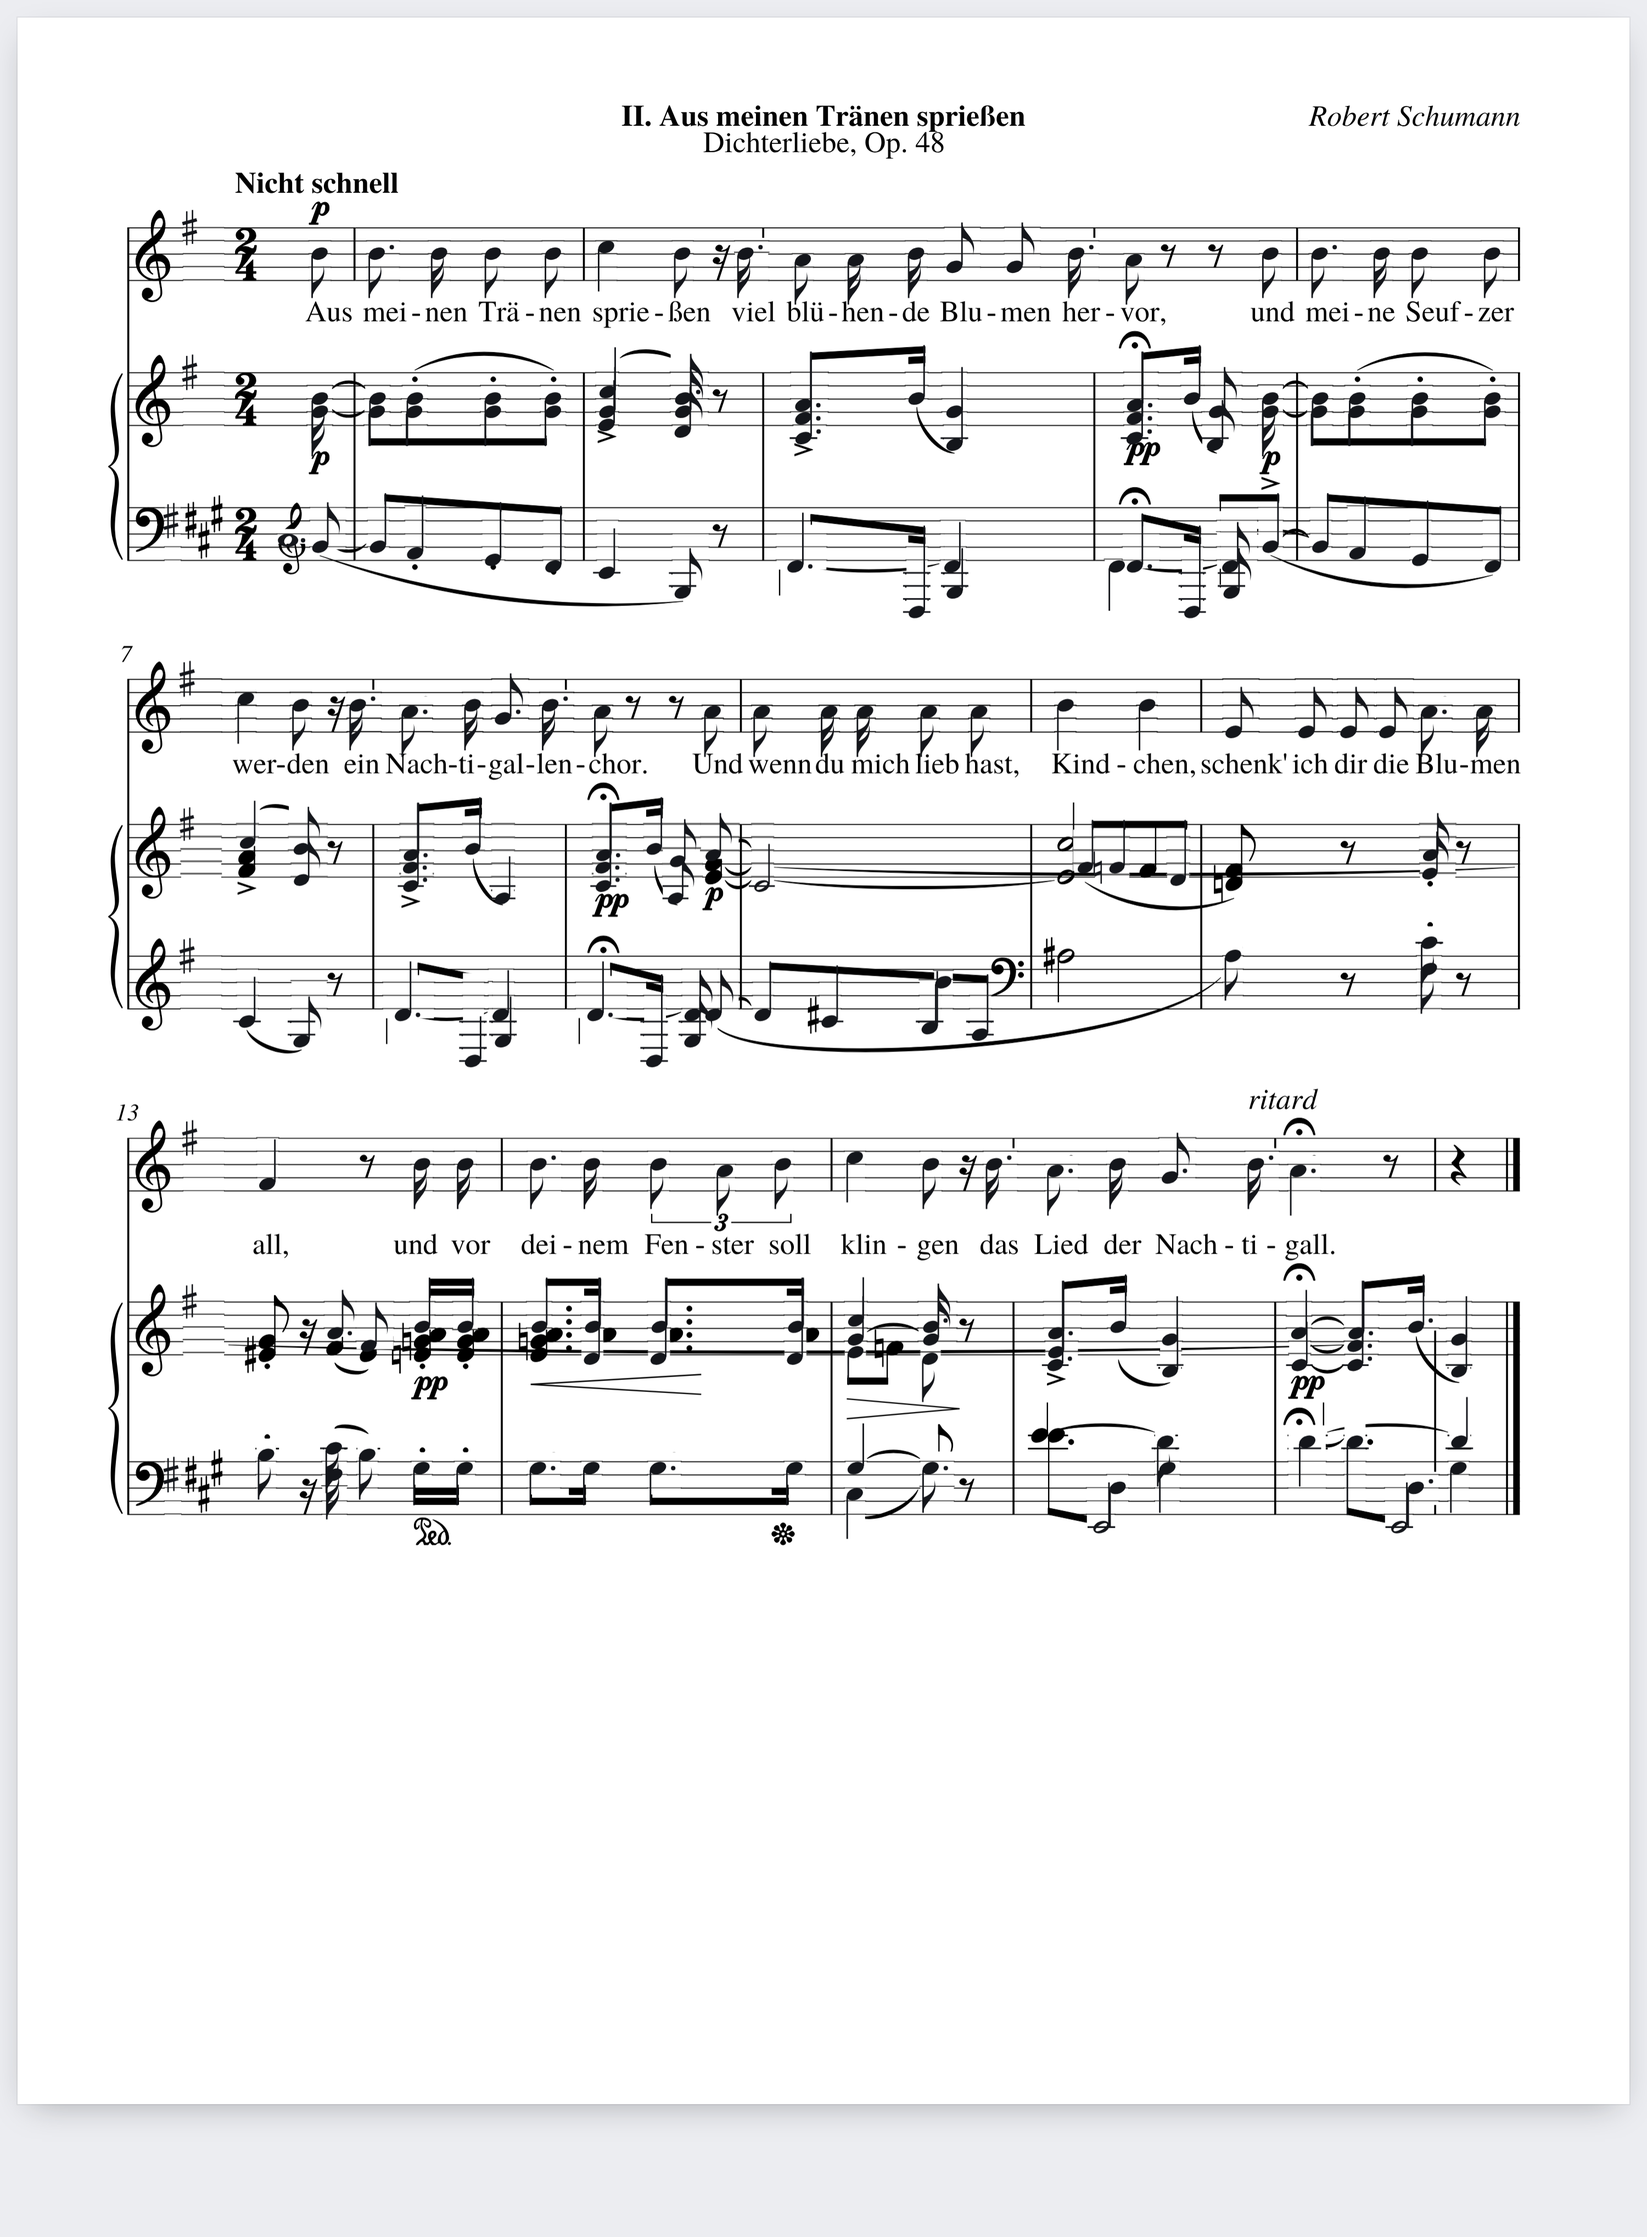
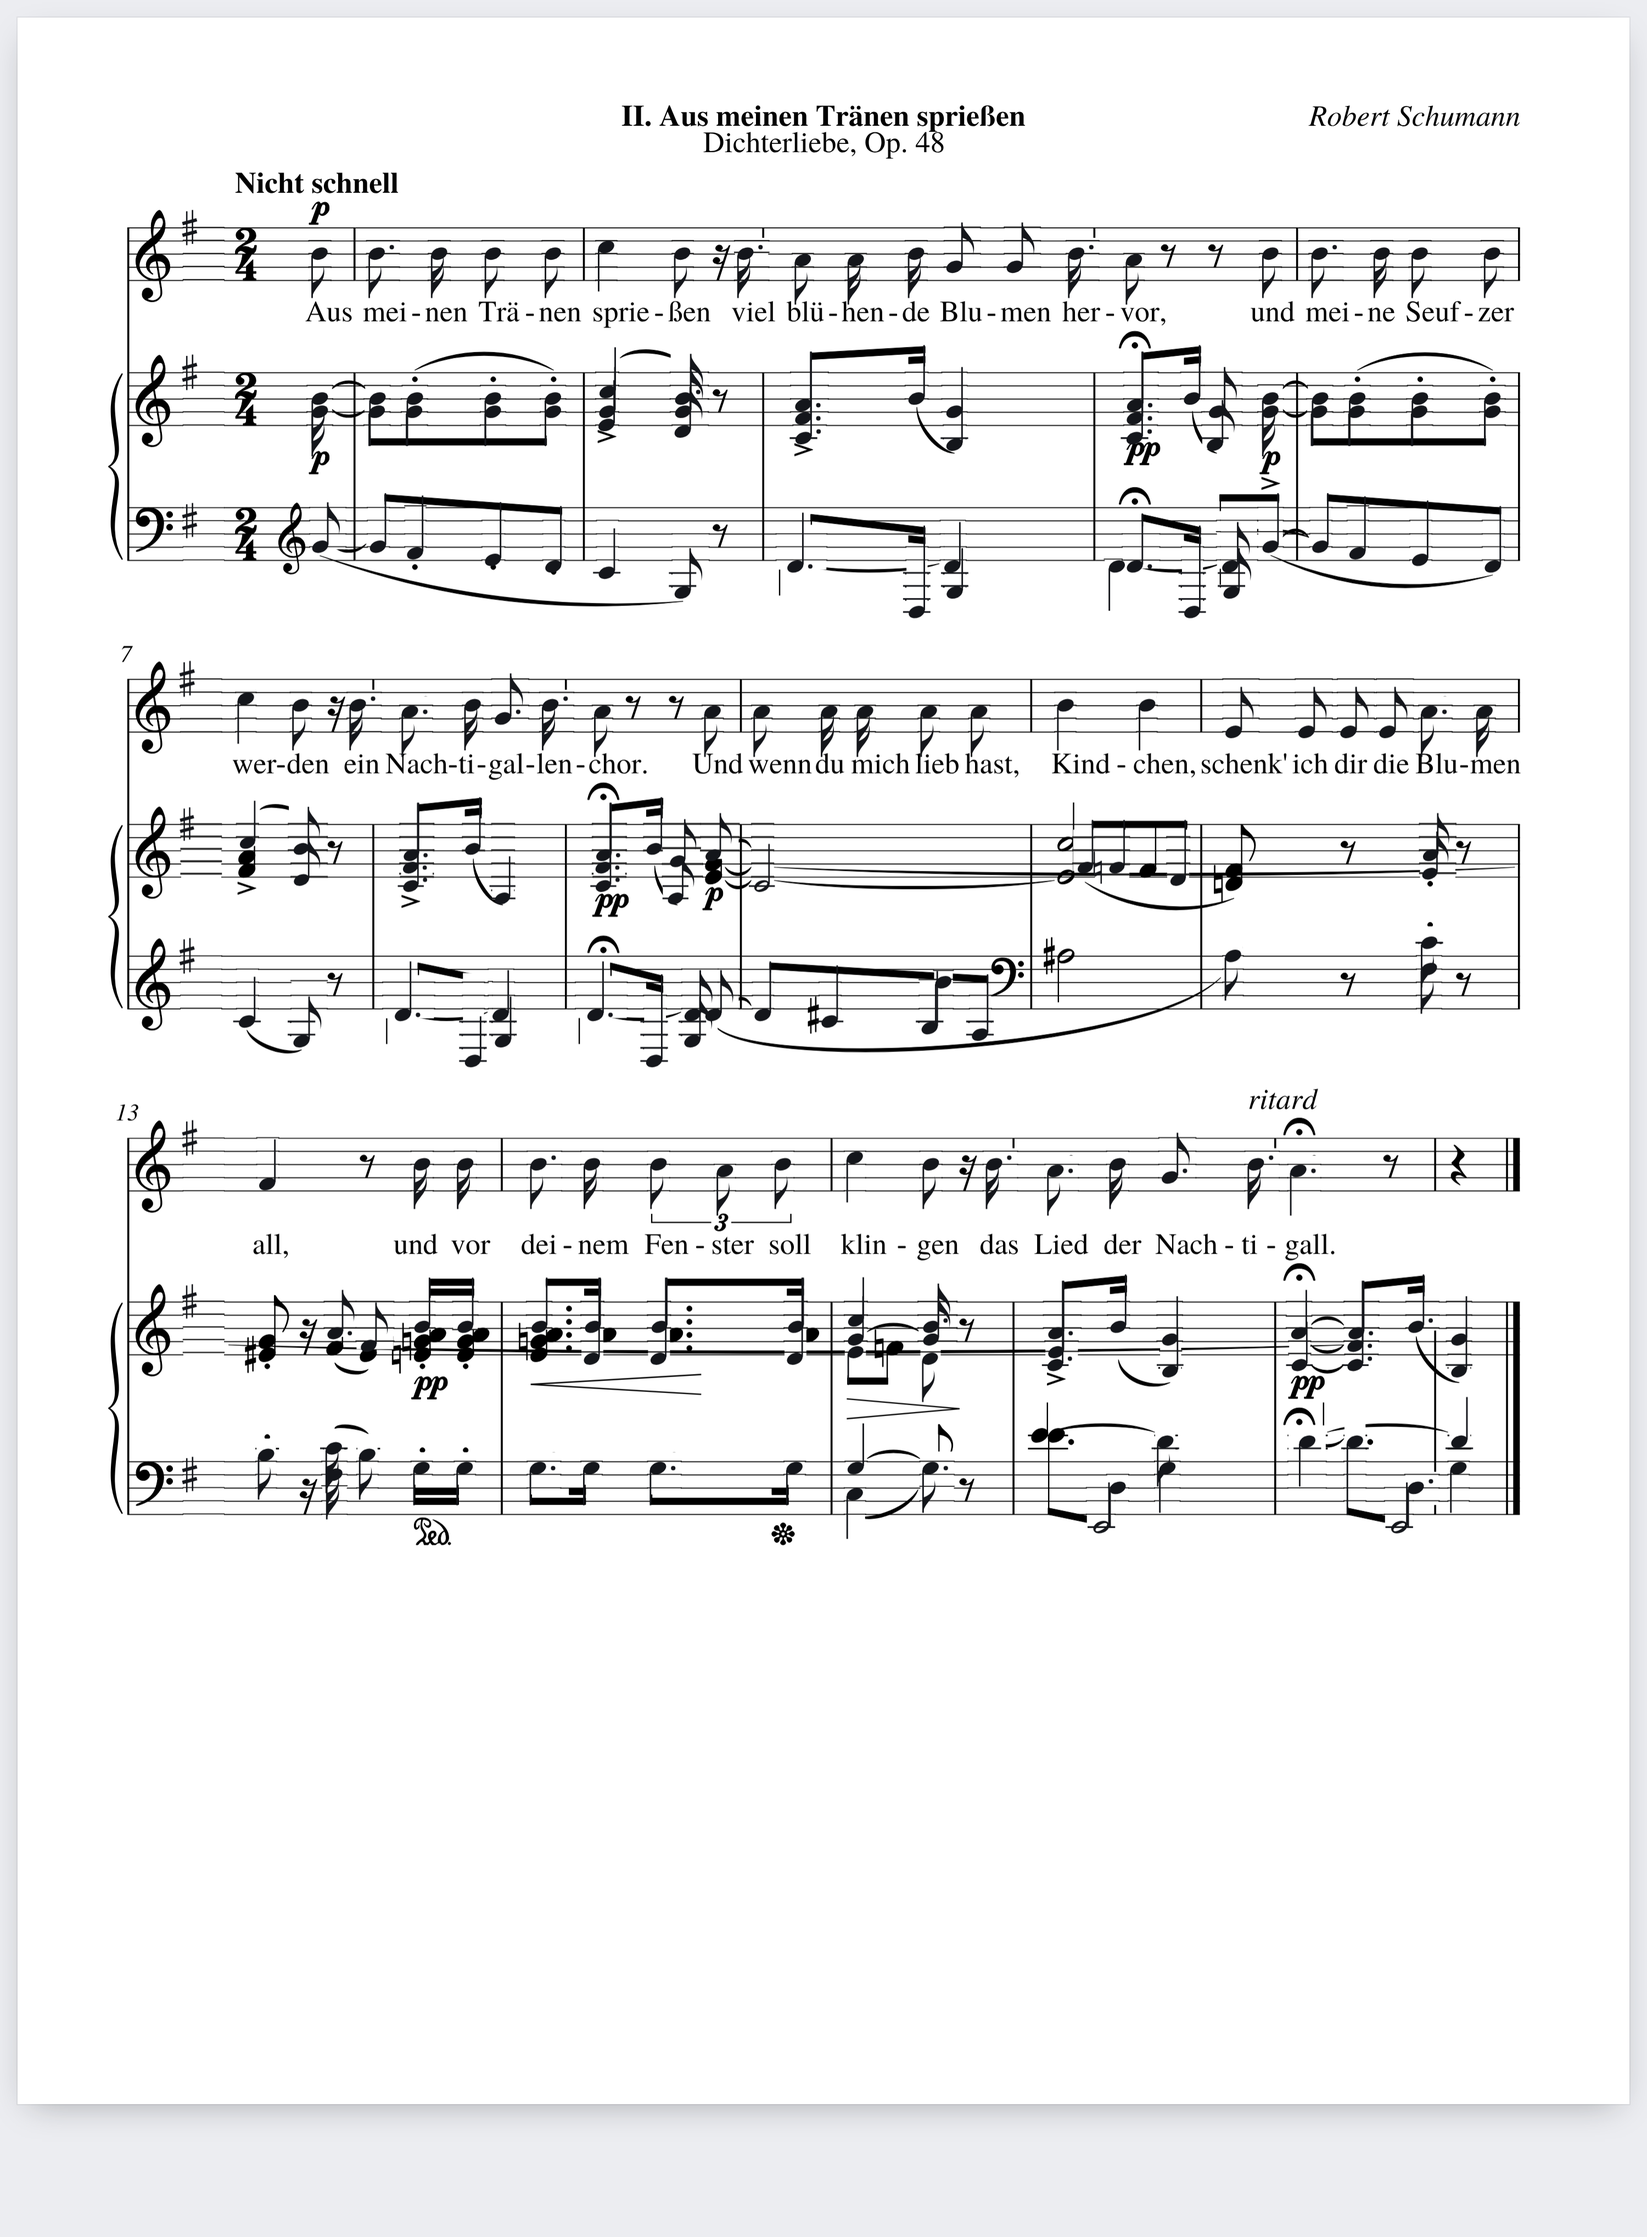
1.0.9: bass-clef key signatures rewrite correctly, mid-staff clefs not treated as notes, opaque redrawn staff lines; keywords for transposing instruments
Claude-Session: https://claude.ai/code/session_0132XAgTJ8toTBqkVbeQ5Rt5

Changed region(s): [[0.093, 0.6546, 0.155, 0.6858], [0.093, 0.2182, 0.155, 0.2494], [0.403, 0.3741, 0.434, 0.4053]]

diff --git a/index.html b/index.html
@@ -2220,8 +2220,8 @@ function attachStaff(it,D0,ly){const g=SV.g,st=(SV.staves||{})[`${SV.o}|${g.r}`]
   if(ly&&ly.length)for(const sg of r.segs){const m=ly.find(([e])=>Math.abs(e-sg[1])<.6);if(m&&Math.abs(m[1]-m[0])<1.5){sg[1]=sg[3]=m[1]}}
   {const ex=.4;for(const sg of r.segs){sg[0]-=ex;sg[2]+=ex}}
   it.sl=r.segs.map(([x1,y1,x2,y2])=>{const a=unrotPt(g.r,g.W,g.H,x1,y1),b=unrotPt(g.r,g.W,g.H,x2,y2);return[+a[0].toFixed(1),+a[1].toFixed(1),+b[0].toFixed(1),+b[1].toFixed(1)]});it.th=+r.th.toFixed(2);if(r.lum!=null&&r.lum>40)it.lc=r.lum}
-const staffCol=it=>it.lc!=null?`rgb(${it.lc},${it.lc},${it.lc})`:'#1a1a1a';
-function drawStaffSegs(ctx,it,map,unit){if(!it.sl)return;ctx.save();ctx.strokeStyle=staffCol(it);const lw=(it.th||.8)*unit;ctx.lineWidth=Math.max(1,lw);if(lw<1)ctx.globalAlpha=Math.max(.35,lw);ctx.lineCap='butt';ctx.beginPath();for(const[x1,y1,x2,y2]of it.sl){const a=map(x1,y1),b=map(x2,y2);ctx.moveTo(a[0],a[1]);ctx.lineTo(b[0],b[1])}ctx.stroke();ctx.restore()}
+/* 測った明るさは線のふちのにじみを含むので、実際の線の芯はもっと濃い */const staffCol=it=>{if(it.lc==null)return'#1a1a1a';const v=Math.round(Math.min(60,it.lc*.4));return`rgb(${v},${v},${v})`};
+function drawStaffSegs(ctx,it,map,unit){if(!it.sl)return;ctx.save();ctx.strokeStyle=staffCol(it);/* 細い線を半透明にすると元の五線より薄く見えるので、太さ1以上・不透明で描く */const lw=(it.th||.8)*unit;ctx.lineWidth=Math.max(1,lw*1.1);ctx.lineCap='butt';ctx.beginPath();for(const[x1,y1,x2,y2]of it.sl){const a=map(x1,y1),b=map(x2,y2);ctx.moveTo(a[0],a[1]);ctx.lineTo(b[0],b[1])}ctx.stroke();ctx.restore()}
 function fillSnap(ctx,B){const x=Math.floor(B.x),y=Math.floor(B.y);ctx.fillRect(x,y,Math.ceil(B.x+B.w)-x,Math.ceil(B.y+B.h)-y)}
 function pxBox(map,x,y,w,h){const a=map(x,y),b=map(x+w,y+h);return{x:Math.min(a[0],b[0]),y:Math.min(a[1],b[1]),w:Math.abs(a[0]-b[0]),h:Math.abs(a[1]-b[1])}}
 const patchCache=new Map();
@@ -2486,7 +2486,7 @@ async function detectHeads(){const g=SV.g;if(!g||!SV.doc)return[];const key=`${S
       /* 調号の記号：音部記号の後ろに、幅の狭い記号（♯・♭）が近い間隔で並ぶ。音部記号との間が広い楽譜もある */
       const runs=[];if(ce>0){const lim=Math.min(w-1,ce+Math.round(s0.sp*12)),raw=[];let xx=ce;while(xx<lim){while(xx<lim&&!colInk(xx))xx++;if(xx>=lim)break;const a=xx;while(xx<lim&&colInk(xx))xx++;
           const r={a,b:xx-1},p=raw[raw.length-1];/* 線を消した時に切れた細いかけらは前の記号につなげる */if(p&&(r.b-r.a+1<s0.sp*.4||p.b-p.a+1<s0.sp*.4)&&r.a-p.b<=s0.sp*.35&&r.b-p.a<s0.sp*.95)p.b=r.b;else raw.push(r)}
-        let last=ce;for(const r of raw){const gap=r.a-last,wd=r.b-r.a+1;if(runs.length>=7||gap>s0.sp*(runs.length?.75:1.5)||wd<s0.sp*.3||wd>s0.sp*.95){/* 手書き風の楽譜：くっついた♯がひとかたまりになっている */if(!runs.length&&gap<=s0.sp*1.5&&wd>s0.sp*.95&&wd<=s0.sp*7)s0.ksWide=r;break}runs.push(r);last=r.b+1}
+        let last=ce;for(const r of raw){const gap=r.a-last,wd=r.b-r.a+1;/* ヘ音記号の右の2つの点（五線の上半分だけにある小さな記号）は飛ばす */if(!runs.length&&bassL&&wd<s0.sp*.62&&gap<=s0.sp*.8){let lo=false;for(let y=Math.round(top+s0.sp*2.2);y<=Math.min(h-1,bot+Math.round(s0.sp*.5))&&!lo;y++)for(let x=r.a;x<=r.b;x++)if(clean[y*w+x]){lo=true;break}if(!lo){last=r.b+1;continue}}if(runs.length>=7||gap>s0.sp*(runs.length?.75:1.5)||wd<s0.sp*.3||wd>s0.sp*.95){/* 手書き風の楽譜：くっついた♯がひとかたまりになっている */if(!runs.length&&gap<=s0.sp*1.5&&wd>s0.sp*.95&&wd<=s0.sp*7)s0.ksWide=r;break}runs.push(r);last=r.b+1}
         if(runs.length)s0.sigEnd=Math.max(s0.sigEnd,runs[runs.length-1].b+2)}
       /* ト音記号は上の線からつながって上へ1.5間ほど伸びる。ヘ音記号は伸びない（縦線・括弧は長すぎるので除く） */let upX=0;{const lim=Math.round(s0.sp*2.8),T0=Math.max(1,top-Math.round(s0.th||2)-1),XA=Math.max(1,Math.round(x0+s0.sp*.15)),XB=Math.min(w-2,Math.round(x0+s0.sp*3.2)),YL=Math.max(0,T0-lim-2),seen=new Set();
         for(let sx=XA;sx<=XB;sx++){const k0=T0*w+sx;if(!ink[k0]||seen.has(k0))continue;const q=[k0];seen.add(k0);let mn=T0,mx=sx,mnx=sx;
@@ -2669,6 +2669,19 @@ async function detectHeads(){const g=SV.g;if(!g||!SV.doc)return[];const key=`${S
      if((out>0&&wd>=sp*1.1)||wd>sp*2.4)break}});
    /* 拍子記号は同じ位置に上下の段そろって出る（1段目だけの楽譜はそのまま） */
    for(const c of cand){const ok=c.si===0||cand.some(d=>d!==c&&Math.abs(d.si-c.si)===1&&Math.abs(d.a-c.a)<staves[c.si].sp*1.5);if(!ok)continue;for(const hd of heads)if(hd.sti===c.si&&hd._c&&hd._c[0]>=c.a-2&&hd._c[0]<=c.b+2)drop.add(hd)}
+   /* 段の途中の音部記号：符頭に見える部分が、縦に長く（4.5間以上）、中に大きな輪（すき間）を持つ記号の一部なら除く */
+   for(const hd of heads){if(drop.has(hd)||hd.sti==null||!hd._c)continue;const s0=staves[hd.sti],sp=s0.sp,top=s0.top,bot=top+4*sp;
+    const X0=Math.max(0,Math.round(hd._c[0]-sp*3)),X1=Math.min(w-1,Math.round(hd._c[0]+sp*3)),Y0=Math.max(0,Math.round(top-sp*3)),Y1=Math.min(h-1,Math.round(bot+sp*3)),BW=X1-X0+1,BH=Y1-Y0+1;
+    let sx=-1,sy=-1;for(let r=0;r<sp*.6&&sx<0;r++)for(let dy=-r;dy<=r&&sx<0;dy++)for(let dx=-r;dx<=r;dx++){const x=Math.round(hd._c[0])+dx,y=Math.round(hd._c[1])+dy;if(x>=X0&&x<=X1&&y>=Y0&&y<=Y1&&clean[y*w+x]){sx=x;sy=y;break}}
+    if(sx<0)continue;const comp=new Uint8Array(BW*BH),q=[(sy-Y0)*BW+(sx-X0)];comp[q[0]]=1;let mnx=sx,mxx=sx,mny=sy,mxy=sy,n=0;
+    while(q.length&&n<40000){const k=q.pop(),y=((k/BW)|0)+Y0,x=k%BW+X0;n++;if(x<mnx)mnx=x;if(x>mxx)mxx=x;if(y<mny)mny=y;if(y>mxy)mxy=y;
+     for(let dy=-1;dy<=1;dy++)for(let dx=-1;dx<=1;dx++){const yy=y+dy,xx=x+dx;if(yy<Y0||yy>Y1||xx<X0||xx>X1)continue;const kk=(yy-Y0)*BW+(xx-X0);if(!comp[kk]&&clean[yy*w+xx]){comp[kk]=1;q.push(kk)}}}
+    const ch=mxy-mny+1,cw=mxx-mnx+1;if(ch<sp*4.5||cw<sp*1.7||cw>sp*3.2)continue;
+    /* 輪の中のすき間：外からつながらない白い部分 */
+    const bw=cw+2,bh=ch+2,seen=new Uint8Array(bw*bh),isInk=(x,y)=>{const X=x+mnx-1,Y=y+mny-1;return X>=X0&&X<=X1&&Y>=Y0&&Y<=Y1&&comp[(Y-Y0)*BW+(X-X0)]===1};
+    const st=[0];seen[0]=1;while(st.length){const k=st.pop(),y=(k/bw)|0,x=k%bw;for(const[dx,dy]of[[1,0],[-1,0],[0,1],[0,-1]]){const xx=x+dx,yy=y+dy;if(xx<0||yy<0||xx>=bw||yy>=bh)continue;const kk=yy*bw+xx;if(!seen[kk]&&!isInk(xx,yy)){seen[kk]=1;st.push(kk)}}}
+    let best=0;const vis=new Uint8Array(bw*bh);for(let k=0;k<bw*bh;k++){if(seen[k]||vis[k]||isInk(k%bw,(k/bw)|0))continue;let c=0;const s2=[k];vis[k]=1;while(s2.length){const kk=s2.pop(),y=(kk/bw)|0,x=kk%bw;c++;for(const[dx,dy]of[[1,0],[-1,0],[0,1],[0,-1]]){const xx=x+dx,yy=y+dy;if(xx<0||yy<0||xx>=bw||yy>=bh)continue;const k2=yy*bw+xx;if(!seen[k2]&&!vis[k2]&&!isInk(xx,yy)){vis[k2]=1;s2.push(k2)}}}if(c>best)best=c}
+    if(best>=sp*sp*.5)drop.add(hd)}
    if(drop.size){const keep=heads.filter(hd=>!drop.has(hd));heads.length=0;heads.push(...keep)}}
   {const grp=[];let gi=0;staves.forEach((s0,si)=>{if(si>0){const pS=staves[si-1];if(!(pS.bD||[]).some(x=>(s0.bU||[]).some(y=>Math.abs(x-y)<s0.sp*.6)))gi++}grp.push(gi)});
    const mode=a=>{const m={};let best=null,bc=0;for(const v of a){m[v]=(m[v]||0)+1;if(m[v]>bc){bc=m[v];best=v}}return best};

diff --git a/sw.js b/sw.js
@@ -1,5 +1,5 @@
 /* CRATE service worker: アプリ本体を端末に保存してオフラインで起動できるようにする */
-const VERSION = 'crate-v85';
+const VERSION = 'crate-v86';
 const SHELL = ['./', 'index.html', 'manifest.webmanifest', 'vendor/jsmediatags.min.js','vendor/soundtouch-processor.js','vendor/pdfjs/pdf.min.mjs','vendor/pdfjs/pdf.worker.min.mjs','vendor/pdf-lib.min.js',
   'icons/icon-192.png', 'icons/icon-512.png', 'icons/apple-touch-icon.png'];
 
